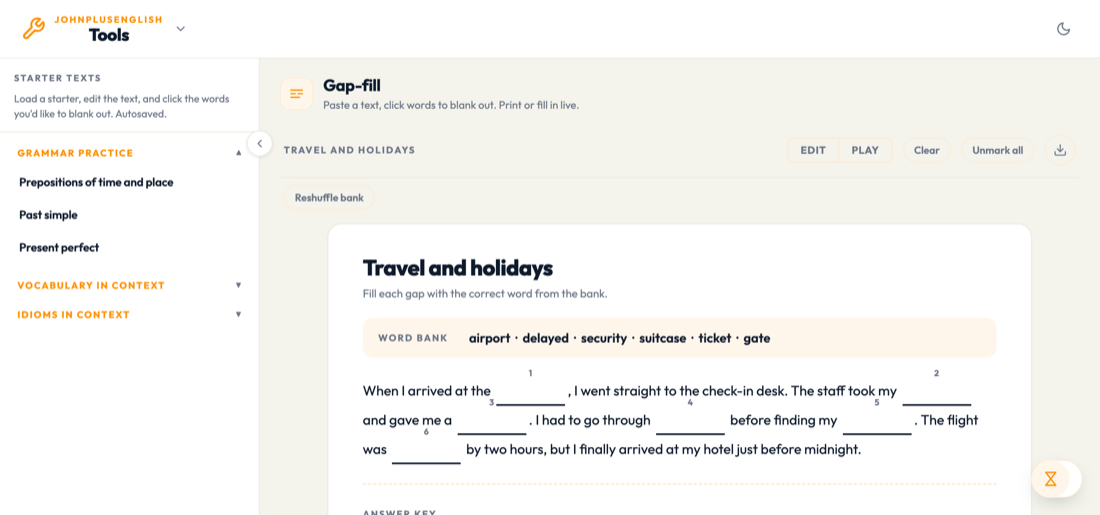
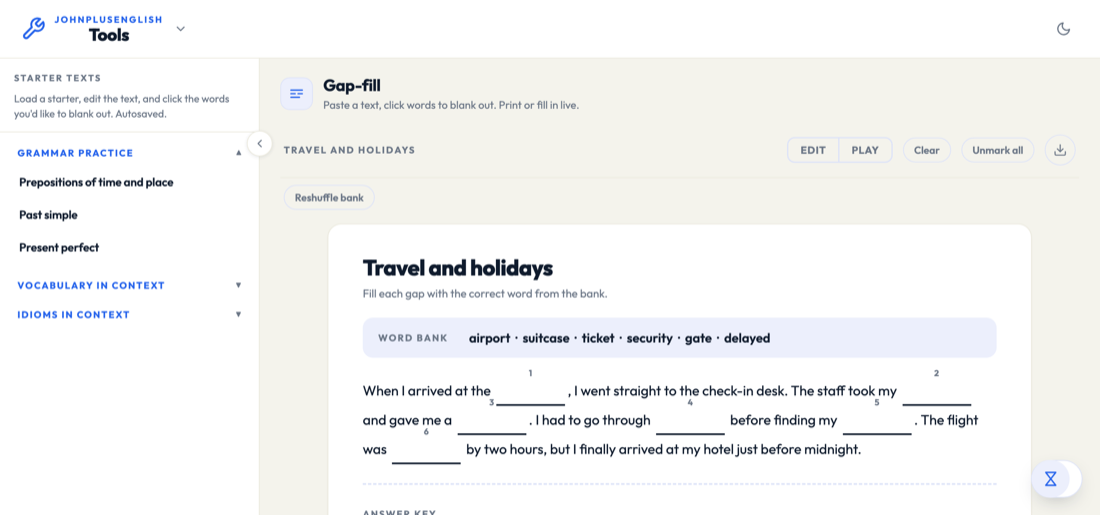
Revert "Preview screenshots: recolor each tool's own UI to its gallery accent"
This reverts commit a793279555c1ce1f169a8117fcd0473703184af3.

diff --git a/make_preview.py b/make_preview.py
@@ -79,71 +79,13 @@ PROOF = {
     'spin-wheel': 'Riley',
 }
 
-def _hex_to_rgb(h):
-    h = h.lstrip('#')
-    return tuple(int(h[i:i + 2], 16) for i in (0, 2, 4))
-
-
-def _rgb_to_hex(rgb):
-    return '#%02x%02x%02x' % tuple(max(0, min(255, round(c))) for c in rgb)
-
-
-def _blend(hex_color, target_rgb, amount):
-    """hex_color shifted toward target_rgb by amount (0-1)."""
-    r1, g1, b1 = _hex_to_rgb(hex_color)
-    r2, g2, b2 = target_rgb
-    return _rgb_to_hex((r1 + (r2 - r1) * amount, g1 + (g2 - g1) * amount, b1 + (b2 - b1) * amount))
-
-
-# Each gallery card now tags its screenshot with its own PALETTE colour
-# instead of the site's default blue, so the accent stripe / badge / preview
-# read as one thing. --accent and --soft aren't separate hand-picked colours
-# in CHROME_CSS, so a straight swap would leave the wash the wrong hue; both
-# are derived here from the same PALETTE fill instead, same relationship the
-# real blue tokens have to each other (light theme washes toward white, dark
-# theme toward the dark card colour, which is what made the default palette
-# read as blue everywhere in the first place).
-_WHITE, _BLACK = (255, 255, 255), (0, 0, 0)
-_DARK_CARD, _DARK_BG = (0x16, 0x21, 0x3a), (0x0f, 0x17, 0x28)
-
-
-def accent_vars_css(fill, theme):
-    if theme == 'dark':
-        accent = _blend(fill, _WHITE, 0.28)
-        accent_deep = _blend(fill, _WHITE, 0.45)
-        soft = _blend(fill, _DARK_CARD, 0.82)
-        soft_line = _blend(fill, _DARK_BG, 0.62)
-    else:
-        accent = fill
-        accent_deep = _blend(fill, _BLACK, 0.16)
-        soft = _blend(fill, _WHITE, 0.92)
-        soft_line = _blend(fill, _WHITE, 0.82)
-    # --level/--level-ink: the Debate Builder's own colour, independent of
-    # --accent (its bubbles and phrase bank are levelled blue "on John's
-    # call", not accent-linked). Same fill, so it still reads as the one
-    # colour on screen; harmless no-op on every other tool, since none of
-    # them define --level in the first place.
-    return (f"documentElement.style.setProperty('--accent','{accent}');"
-            f"documentElement.style.setProperty('--accent-deep','{accent_deep}');"
-            f"documentElement.style.setProperty('--soft','{soft}');"
-            f"documentElement.style.setProperty('--soft-line','{soft_line}');"
-            f"documentElement.style.setProperty('--level','{accent}');"
-            f"documentElement.style.setProperty('--level-ink','#fff');")
-
-
 WRAPPER = """
 <script>
 /* preview-seed: temporary, written by make_preview.py, never committed */
 (function () {
   function go() {
     try {
-      var documentElement = document.documentElement;
 __SEED__
-      /* After the seed, not before: some tools' own render functions
-         (e.g. the Debate Builder's applyLevelColour) set colour custom
-         properties themselves as a side effect of rendering, and would
-         clobber an earlier override right back to blue. */
-__ACCENT_VARS__
       document.documentElement.setAttribute('data-theme', '__THEME__');
       document.title = 'PREVIEW-OK';
     } catch (e) { console.error('seed failed', e); document.title = 'PREVIEW-FAILED'; }
@@ -168,9 +110,7 @@ def shoot(slug, theme, httpd):
     if not page.exists():
         raise SystemExit(f'make_preview: {page} missing. Run build.py first.')
     base = page.read_text(encoding='utf-8')
-    fill = build.PALETTE[build.BY_SLUG[slug]['accent']]['fill']
-    seeded = (WRAPPER.replace('__ACCENT_VARS__', accent_vars_css(fill, theme))
-                      .replace('__SEED__', SEEDS[slug]).replace('__THEME__', theme))
+    seeded = WRAPPER.replace('__SEED__', SEEDS[slug]).replace('__THEME__', theme)
     i = build.sole_position(base, '</body>', 'the preview seed')
     tmp = ROOT / f'_pv-{slug}-{theme}.html'
     tmp.write_text(base[:i] + seeded + base[i:], encoding='utf-8')
